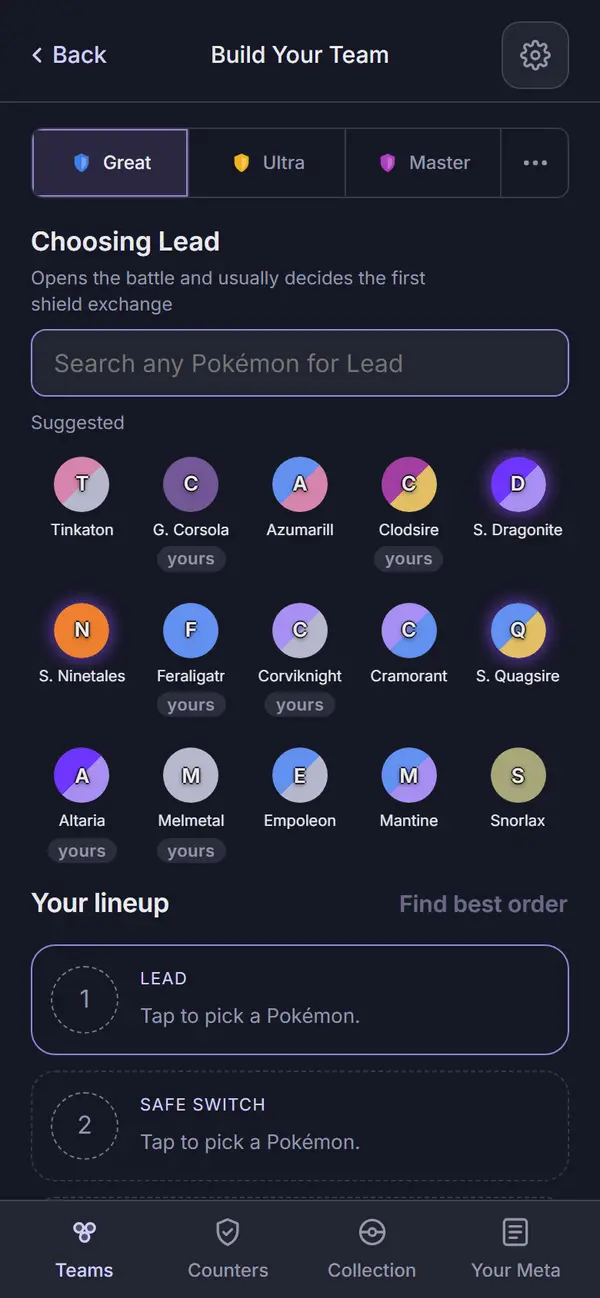
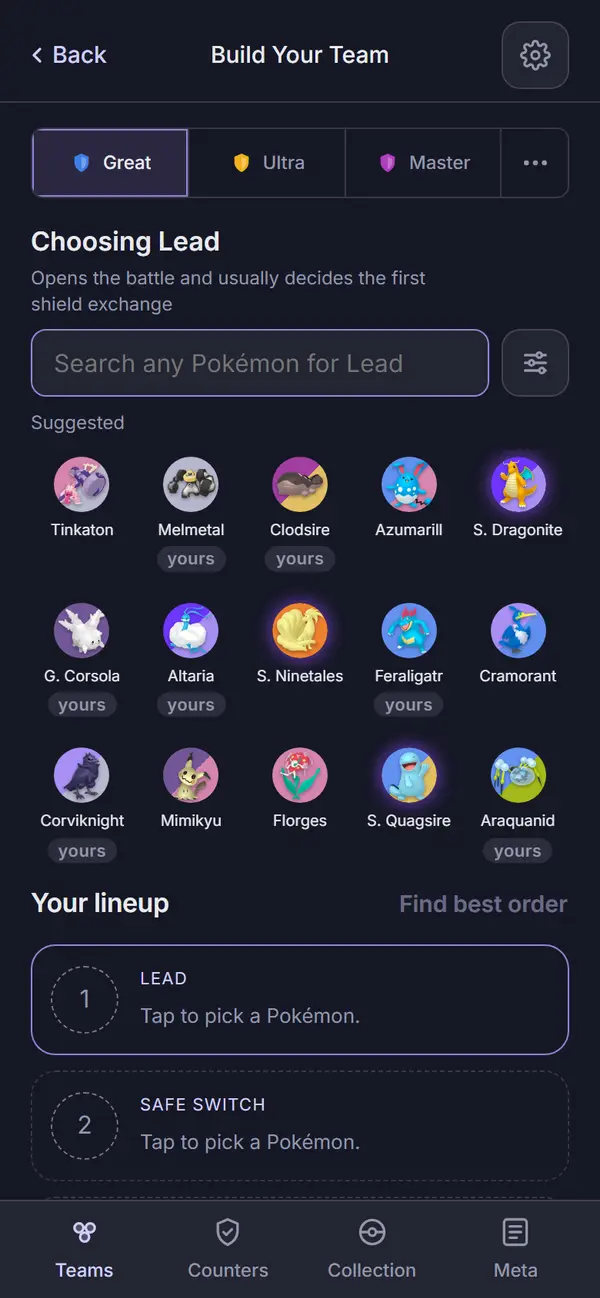
Audit: Build search filters captures and record addendum
Claude-Session: https://claude.ai/code/session_015LzZ7R9d5NNirH6E7Y9NpW

diff --git a/docs/design/audits/build.md b/docs/design/audits/build.md
@@ -30,7 +30,9 @@ nothing new below the fold).
 | State | Dark | Light |
 | --- | --- | --- |
 | `build-empty`: three dashed empty slots, no lineup hint (there is no card to tap yet), Find best order and Analyze both disabled | ![](img/build-empty-dark.webp) | ![](img/build-empty-light.webp) |
-| `build-choosing`: the Lead slot's search open, "Choosing Lead" with the role's job above it, the Suggested grid ("yours" tags on owned species) | ![](img/build-choosing-dark.webp) | ![](img/build-choosing-light.webp) |
+| `build-choosing` (re-captured 2026-10-18 for the filter button, see the addendum): the Lead slot's search open, "Choosing Lead" with the role's job above it, the filter button beside the search, the Suggested grid ("yours" tags on owned species) | ![](img/build-choosing-dark.webp) | ![](img/build-choosing-light.webp) |
+| `build-filters-sheet` (addendum, 2026-10-18): the Filters sheet over the open Lead search, Yours only switched on, the badge showing 1 on the filter button behind it | ![](img/build-filters-sheet-dark.webp) | ![](img/build-filters-sheet-light.webp) |
+| `build-yours-only` (addendum, 2026-10-18): Yours only on, the sheet closed, the Lead search still open ("Search your Pokémon for Lead"), Suggested showing only your copies in meta order, each still tagged "yours" | ![](img/build-yours-only-dark.webp) | ![](img/build-yours-only-light.webp) |
 | `build-suggestions`: one pick made (Skarmory), "Best with your first pick" with two + Add rows, each a reason against the pin alone | ![](img/build-suggestions-dark.webp) | ![](img/build-suggestions-light.webp) |
 | `13-build`: all three slots filled with species picks (none owned), "None of these are yours yet, so there is nothing to price.", Analyze enabled (full page) | ![](img/13-build-dark.webp) | ![](img/13-build-light.webp) |
 | `13b-build-moves`: the move sheet open on Azumarill, two charged moves ticked, the third disabled with "Untick one to pick another" and a "Changed" tag on the swapped move | ![](img/13b-build-moves-dark.webp) | ![](img/13b-build-moves-light.webp) |
@@ -355,6 +357,94 @@ Open items for Travis (not fixed on this branch):
 - **Pinned for later (Travis, 2026-09-25):** the shuffle icon next to "Find best order" from the
   design pass ("Find best order (shuffle icon) in the section header", design intake, Page 2,
   first pass). Not in this page's scope; a small follow-up.
+
+## Addendum: search filters (2026-10-18)
+
+Spec: `docs/superpowers/specs/2026-10-18-build-search-filters-design.md`. Build's slot search gets
+Collection's filter pattern: an icon-only filter button beside the input (count badge when a
+switch differs from its default) that opens a Filters sheet. Its one switch, Yours only, narrows
+the search and Suggested to your own copies. Nothing else on the page changed; the signed
+sections above stand as signed, apart from `build-choosing`, which is re-captured because the
+filter button now sits beside its search.
+
+New and re-captured images, dark and light at 390px, WebP 600px wide quality 72 from
+`apps/web/screenshots/<name>-{dark,light}.png`, converted the same way as the rest of this record:
+`build-filters-sheet` and `build-yours-only` (new; rows in the Screenshots table above) and
+`build-choosing` (replaced). All three are viewport shots. Unlike the 2026-09-25 captures, this run's
+game data was built with sprites, so these three show real sprites and "yours" tags rather than
+token letters; the sprite-less fallback is unchanged and was not touched. The other five Build
+captures (`build-empty`, `build-suggestions`, `13-build`, `13b-build-moves`, `build-cost`) were
+re-run in the same audit and not re-converted: nothing in them changed, because the capture flow
+switches Yours only back off before leaving the slot (the switch is held in memory for the
+session) and asserts the placeholder is back to "Search any".
+
+### Automated checks
+
+- [x] `npm run web:audit`: exit 0 on 2026-10-19 against `d39682e` plus this commit's `screens.mjs`.
+      `build-filters-sheet` and `build-yours-only` are added to `AUDIT_ENFORCED` beside
+      `build-choosing`. Zero findings on any enforced Build screen in either theme (the findings
+      list has no `build-*` or `13-build` rows; the 107 it prints are on screens not yet
+      redesigned and none fail the run). No "Browser errors" section.
+- [x] the run's own guards: `build-empty` header edges `{"left":2,"right":0}` and the title
+      centred (unchanged); `build-filters-sheet` must show `.ui-sheet .ui-switch-row`;
+      `build-yours-only` must show `.build-choose .recent-token`; the flow throws `build filters:
+      the slot closed with the sheet` if the search input is gone after Done, and fails if the
+      placeholder does not read "Search any" once Yours only is switched back off.
+- [x] `npm run lint`, `npm run typecheck`, `npm test` (196 files, 2,026 passed, 1 skipped) and
+      `npm run check-colors` all clean at this commit. No new CSS and no new color literals: the
+      row, button, sheet and switch are Collection's own parts.
+
+### Aesthetics
+
+- [x] the filter row matches Collection's: the input and the icon-only filter button share
+      Collection's `.search-row`, the button at the right at the input's height, as in
+      `collection-filters-sheet`. Build's input keeps its own look and focus ring.
+- [x] the badge: `build-yours-only` and `build-filters-sheet` show a "1" on the button with Yours
+      only on; `build-choosing` shows none with it off. It is the `FilterButton`'s own count
+      badge, violet (interaction), not pink: nothing here is measured data.
+- [x] the sheet: titled "Filters" with a Done button, one switch row, "Yours only" over "Only the
+      Pokémon you have" (Collection's line for Hide not collected, word for word), the switch on
+      the right in violet. It is the ui `Sheet` and `Switch`, in the same list markup as
+      Collection's sheet. Two text levels, the label and a muted line, no new sizes.
+- [x] pills unchanged: every token in `build-yours-only` still carries the neutral "yours" `Tag`,
+      as in `build-choosing`; there is no new owned mark and no Yours / Any grouping, per the spec's
+      anti-goals.
+- [x] at most one line of text before the first result: the label "Suggested" sits between the
+      search row and the grid, as before.
+- [x] light as readable as dark: all three states are matched pairs; the audit's per-theme
+      contrast pass is clean on both new screens.
+- [x] sprites unchanged: not affected. These captures do show sprites; no component or CSS that
+      draws one changed.
+
+### Functionality
+
+- [x] the button is named and only offered when it can do something: its name reads "Filters",
+      or "Filters, 1 on" with the switch on, and it is not rendered with no collection imported
+      (that state keeps its existing "No collection imported" line). Tested in
+      `apps/web/test/buildFilters.test.tsx` ("hides the Filters button with no collection",
+      "opens the Filters sheet with Yours only off, and counts it once on").
+- [x] the slot stays open: opening the sheet, flipping the switch and tapping Done leave the search
+      input present (the capture flow throws if not), and the placeholder follows the switch
+      ("Search your Pokémon for Lead" on, "Search any Pokémon for Lead" off; the capture flow
+      asserts the off state). `buildFilters.test.tsx` covers "keeps the slot open through the
+      sheet" and "Escape in the sheet closes the sheet, not the slot".
+- [x] Yours only narrows both lists: the search shows only your copies and Suggested shows your
+      best copy of each species you can run here in the league's meta order, each tagged "yours"
+      (`build-yours-only`). With it off Suggested is today's mixed list (`build-choosing`).
+      Suggest teammates, lead links and every other Build state are unchanged.
+- [x] the input rule still holds: input at the top (with its filter button beside it), results
+      directly under it, the lineup slots under that; the sheet opens over the page and the
+      keyboard-covered area holds no new control.
+- [x] product rules: the switch reads the collection on the device and makes no request; no
+      `connect-src` change; the value is held for the session only (`useSticky`) and resets on
+      reload, as Collection's filters do.
+
+Left for Travis to look at: whether the filter button's place beside Build's input reads right on
+a real phone, and the two empty-state lines ("None of your Pokémon match. Switch off Yours only to
+search every Pokémon.", "None of your Pokémon can be built for this league."), which no capture
+shows (covered by `buildFilters.test.tsx`).
+
+- [ ] Travis, sign-off for the search filters addendum.
 
 ## Sign-off
 
